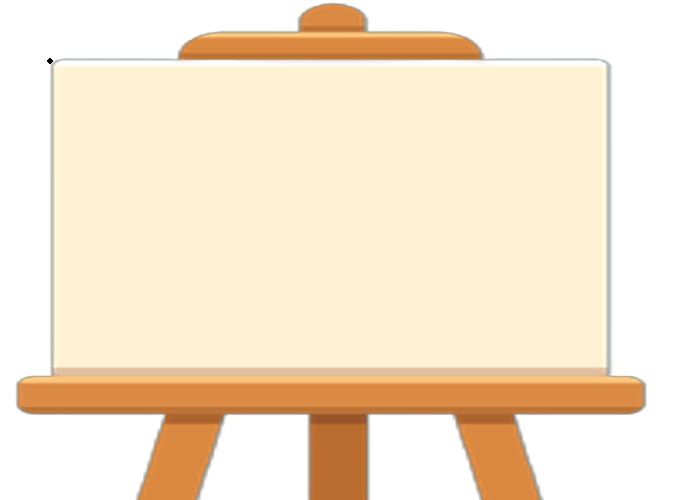
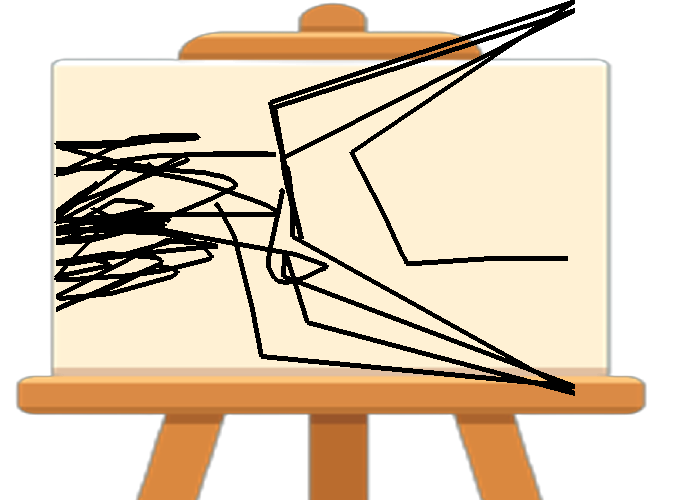
drawing board getting better

diff --git a/drawing_player.py b/drawing_player.py
@@ -55,24 +55,23 @@ class drawing_player:
         background = pygame.transform.scale(background,
                                             (WINDOW_WIDTH, WINDOW_HEIGHT))
 
+        clock = pygame.time.Clock()
+
         # start the game loop
         running = True
         while running:
+            mouse_pos = pygame.mouse.get_pos()
             # handle events
             for event in pygame.event.get():
                 if event.type == pygame.QUIT:
                     running = False
                 elif event.type == pygame.MOUSEBUTTONDOWN:
-                    if event.button == 1:  # left mouse button
-                        # mouse_y_pos = pygame.mouse.get_pos()[1]
-                        # mouse_x_pos = pygame.mouse.get_pos()[0]
-                        pygame.draw.circle(drawing_surface, brush_color, event.pos, brush_size - 2)
-                        last_pos = event.pos
-                    # elif event.button == 3:  # right mouse button
-                    #     # undo last path
-                    #     # drawing_surface.fill(WHITE)
-                    #     pygame.draw.line(drawing_surface, WHITE, last_pos, last_pos, brush_size)
-                    mouse_pos = pygame.mouse.get_pos()
+                    if event.button == 1 and mouse_in_button(board_button, mouse_pos):
+                        event_pos = event.pos
+                        if not(mouse_in_button(board_button, event_pos)):
+                            event_pos = last_pos_in_board(event_pos)
+                        pygame.draw.circle(drawing_surface, brush_color, event_pos, brush_size - 2)
+                        last_pos = event_pos
                     if mouse_in_button((red_button), mouse_pos):
                         brush_color = RED
                     if mouse_in_button((orange_button), mouse_pos):
@@ -95,10 +94,13 @@ class drawing_player:
                         brush_color = BLACK
                     if mouse_in_button((eraser_button), mouse_pos):
                         brush_color = BOARD_COLOR
-                elif event.type == pygame.MOUSEMOTION:
+                elif event.type == pygame.MOUSEMOTION and mouse_in_button(board_button, mouse_pos):
                     if event.buttons[0]:  # left mouse button
-                        pygame.draw.line(drawing_surface, brush_color, last_pos, event.pos, brush_size)
-                        last_pos = event.pos
+                        event_pos = event.pos
+                        if not (mouse_in_button(board_button, event_pos)):
+                            event_pos = last_pos_in_board(event_pos)
+                        pygame.draw.line(drawing_surface, brush_color, last_pos, event_pos, brush_size)
+                        last_pos = event_pos
                 elif event.type == pygame.USEREVENT:
                         counter -= 1
                         if counter > 0:
@@ -124,9 +126,12 @@ class drawing_player:
             screen.blit(txtsurf, (1000 - txtsurf.get_width() // 2, 700 - txtsurf.get_height() // 2))
             # screen.blit(txtsurf, (TIMER_X_POS-))
 
-            print(pygame.mouse.get_pos())
-            cursor_img_rect.center = (pygame.mouse.get_pos()[0] + 35, pygame.mouse.get_pos()[1] + 5) # update position
-            screen.blit(cursor_img, cursor_img_rect)  # draw the cursor
+            if mouse_in_button(board_button, mouse_pos):
+                pygame.mouse.set_visible(False)
+                cursor_img_rect.center = (pygame.mouse.get_pos()[0] + 35, pygame.mouse.get_pos()[1] + 5) # update position
+                screen.blit(cursor_img, cursor_img_rect)  # draw the cursor
+            else:
+                pygame.mouse.set_visible(True)
 
             word_font = pygame.font.SysFont('Anything Skribble', WORD_TEXT_SIZE)
             guess_word = word_font.render(rnd_Level1, True, LIGHT_BROWN)
@@ -137,6 +142,8 @@ class drawing_player:
             # update the screen
             pygame.display.update()
             pygame.display.flip()
+
+            clock.tick(60)
 
         # quit Pygame
         pygame.quit()

diff --git a/helpers.py b/helpers.py
@@ -80,3 +80,23 @@ def display_comments(self):
         position_index += 1
         if i >= NUM_OF_COMMENTS_TO_DISPLAY - 1:
             break
+
+
+def last_pos_in_board(event_pos):
+    event_pos = list(event_pos)
+    if event_pos[0] <= BOARD_X_POS:
+        print("meow")
+        event_pos[0] = BOARD_X_POS + 1
+        return event_pos
+    elif event_pos[0] <= BOARD_X_POS + BOARD_WIDTH:
+        # print("meow")
+        event_pos[0] = BOARD_X_POS + BOARD_WIDTH - 1
+        return event_pos
+    elif event_pos[1] <= BOARD_Y_POS:
+        # print("meow")
+        event_pos[1] = BOARD_Y_POS + 1
+        return event_pos
+    elif event_pos[1] > BOARD_Y_POS + BOARD_HEIGHT:
+        # print("meow")
+        event_pos[1] = BOARD_Y_POS + BOARD_HEIGHT - 1
+        return event_pos

diff --git a/buttons.py b/buttons.py
@@ -37,3 +37,5 @@ button_ru = Button(RU_BTN_X_POS, RU_BTN_Y_POS, lang_button_width, lang_button_he
 button_ar = Button(AR_BTN_X_POS, AR_BTN_Y_POS, lang_button_width, lang_button_height)
 button_fr = Button(FR_BTN_X_POS, FR_BTN_Y_POS, lang_button_width, lang_button_height)
 button_sp = Button(SP_BTN_X_POS, SP_BTN_Y_POS, lang_button_width, lang_button_height)
+
+board_button = Button(BOARD_X_POS, BOARD_Y_POS, BOARD_WIDTH, BOARD_HEIGHT)

diff --git a/main2.py b/main2.py
@@ -55,7 +55,7 @@ class home_screen:
                     mouse_pos = event.pos
                     if mouse_in_button(play_button, mouse_pos):
                         drawing_player.dp_main(self)
-            # screen.fill(BLUE)
+            screen.fill(BLUE)
             screen.blit(background, (image_x_index, 0))
 
             if image_x_index != (0 - WINDOW_WIDTH):

diff --git a/Constants.py b/Constants.py
@@ -75,7 +75,7 @@ GUESS_Y_POS = 433
 
 BOARD_X_POS = 55
 BOARD_Y_POS = 64
-BOARD_WIDTH = 550
+BOARD_WIDTH = 520
 BOARD_HEIGHT = 300
 
 COLORS_X_POS = 43
